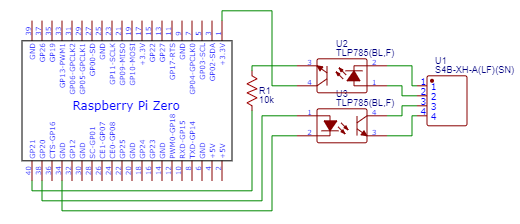
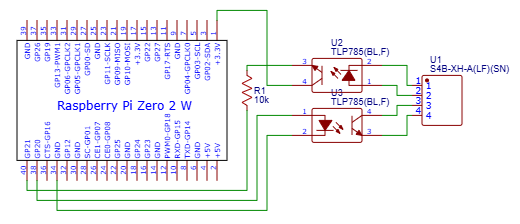
feat: Zero Wのサポート終了

Changed region(s): [[0.0308, 0.0312, 1.0, 0.9688]]

diff --git a/README.md b/README.md
@@ -8,7 +8,7 @@
 
 JEM1427(HA端子、JEM-A端子)をGPIOに接続し、MQTT、Home Assistantで操作するためのアプリケーションです。
 
-Raspberry Pi Zero(またはZero2)に下記の回路を取り付けることで動作します。
+Raspberry Pi Zero 2 Wに下記の回路を取り付けることで動作します。
 
 ## 回路図
 
@@ -55,7 +55,8 @@ npm run build
 node --env-file=.env index.mjs
 ```
 
-> [!TIP]  
+> [!TIP]
+>
 > 必要な環境変数については[こちら](src/env.ts)をご確認ください。
 >
 > ビルド済みの[`index.mjs`](https://github.com/nana4rider/jema2mqtt/releases/)、[`config.json`](./config.json.example)、[`.env`](./.env.example)のみで動作します。(`npm install`不要)
